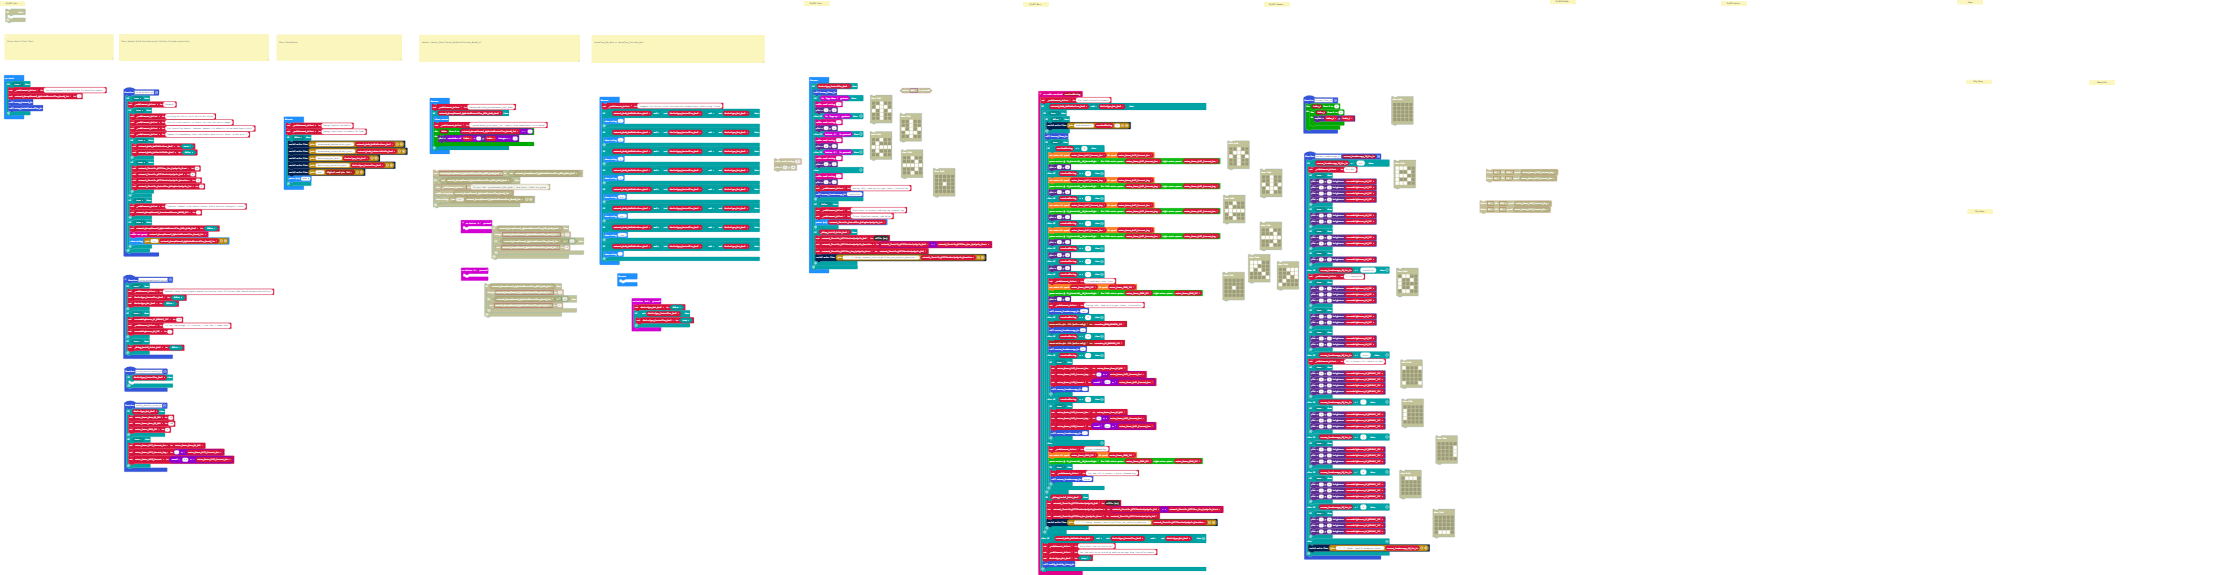
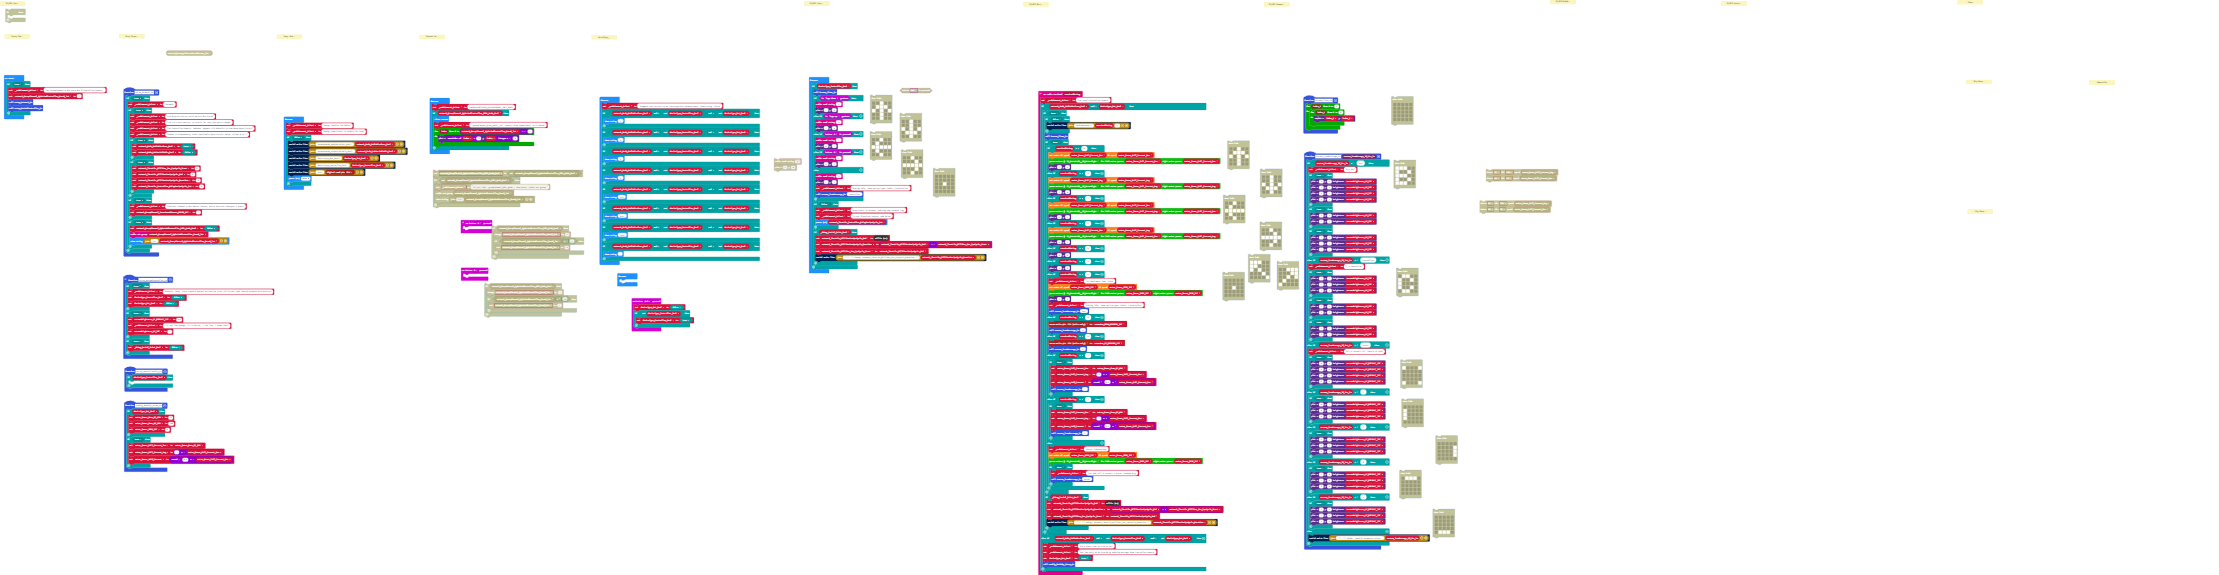
22-1019-1130 Flip-Vertical 'b'ot status and led_directional_motion on bot

Changed region(s): [[0.5908, 0.4139, 0.653, 0.9757], [0.0, 0.0591, 0.342, 0.1183]]

diff --git a/main.ts b/main.ts
@@ -223,21 +223,19 @@ function screen_IconMesssage_Fn (screen_IconMessage_Id_Str_In: string) {
     if (screen_IconMessage_Id_Str_In == "bot") {
         _codeComment_AsText = "B = Bot"
         if (true) {
-            led.plotBrightness(1, 0, screenBrightness_LO_INT)
-            led.plotBrightness(1, 1, screenBrightness_LO_INT)
-            led.plotBrightness(1, 2, screenBrightness_LO_INT)
-            led.plotBrightness(1, 3, screenBrightness_LO_INT)
-        }
-        if (true) {
-            led.plotBrightness(2, 3, screenBrightness_LO_INT)
+            led.plotBrightness(3, 4, screenBrightness_LO_INT)
             led.plotBrightness(3, 3, screenBrightness_LO_INT)
-        }
-        if (true) {
-            led.plotBrightness(2, 1, screenBrightness_LO_INT)
+            led.plotBrightness(3, 2, screenBrightness_LO_INT)
             led.plotBrightness(3, 1, screenBrightness_LO_INT)
         }
         if (true) {
-            led.plotBrightness(3, 2, screenBrightness_LO_INT)
+            led.plotBrightness(2, 3, screenBrightness_LO_INT)
+            led.plotBrightness(2, 1, screenBrightness_LO_INT)
+        }
+        if (true) {
+            led.plotBrightness(1, 3, screenBrightness_LO_INT)
+            led.plotBrightness(1, 2, screenBrightness_LO_INT)
+            led.plotBrightness(1, 1, screenBrightness_LO_INT)
         }
     } else if (screen_IconMessage_Id_Str_In == "controller") {
         _codeComment_AsText = "C = Controller"
@@ -539,19 +537,19 @@ radio.onReceivedString(function (receivedString) {
                 if (receivedString == "f") {
                     wuKong.setAllMotor(motor_Power_Full_Current_Pos, motor_Power_Full_Current_Pos)
                     roboQuest.powerMotorsViaBlueRedBlackPins(PortGroup_BlueRedBlack__PortIds__Enum.S1_MotorLeft__S0_MotorRight, motor_Power_Full_Current_Pos, motor_Power_Full_Current_Pos)
-                    led.plot(2, 0)
+                    led.plot(2, 4)
                 } else if (receivedString == "b") {
                     wuKong.setAllMotor(motor_Power_Full_Current_Neg, motor_Power_Full_Current_Neg)
                     roboQuest.powerMotorsViaBlueRedBlackPins(PortGroup_BlueRedBlack__PortIds__Enum.S1_MotorLeft__S0_MotorRight, motor_Power_Full_Current_Neg, motor_Power_Full_Current_Neg)
-                    led.plot(2, 4)
+                    led.plot(2, 0)
                 } else if (receivedString == "l") {
                     wuKong.setAllMotor(motor_Power_Full_Current_Neg, motor_Power_Full_Current_Pos)
                     roboQuest.powerMotorsViaBlueRedBlackPins(PortGroup_BlueRedBlack__PortIds__Enum.S1_MotorLeft__S0_MotorRight, motor_Power_Full_Current_Neg, motor_Power_Full_Current_Pos)
-                    led.plot(0, 2)
+                    led.plot(4, 2)
                 } else if (receivedString == "r") {
                     wuKong.setAllMotor(motor_Power_Full_Current_Pos, motor_Power_Full_Current_Neg)
                     roboQuest.powerMotorsViaBlueRedBlackPins(PortGroup_BlueRedBlack__PortIds__Enum.S1_MotorLeft__S0_MotorRight, motor_Power_Full_Current_Pos, motor_Power_Full_Current_Neg)
-                    led.plot(4, 2)
+                    led.plot(0, 2)
                 } else if (receivedString == "8") {
                     led.plot(0, 0)
                 } else if (receivedString == "9") {
